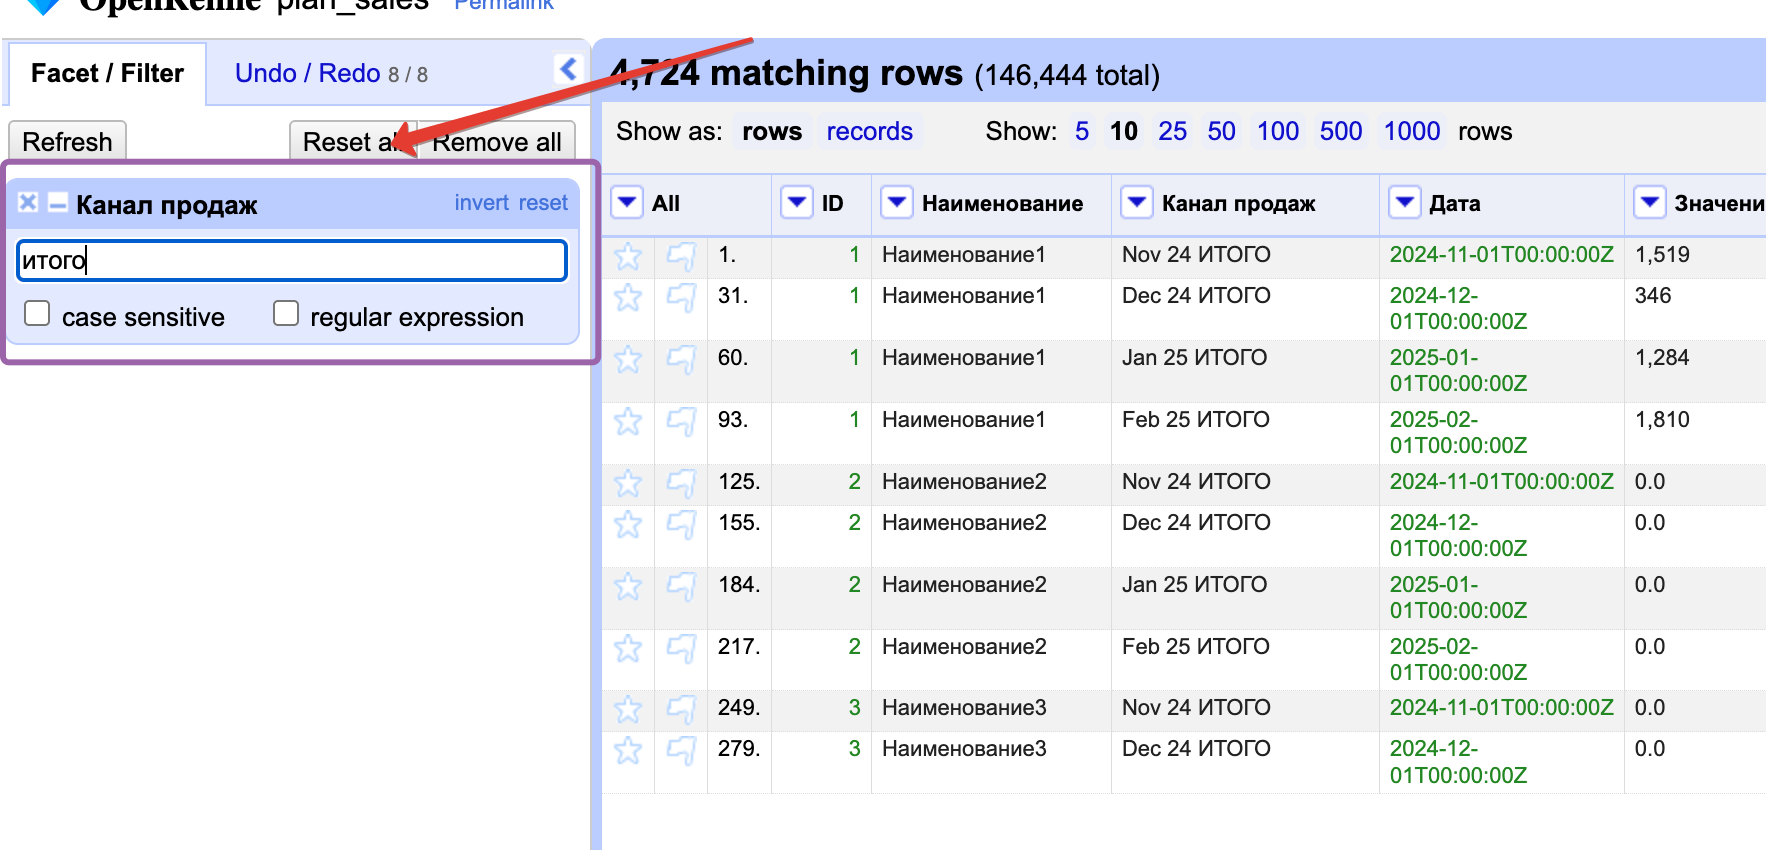
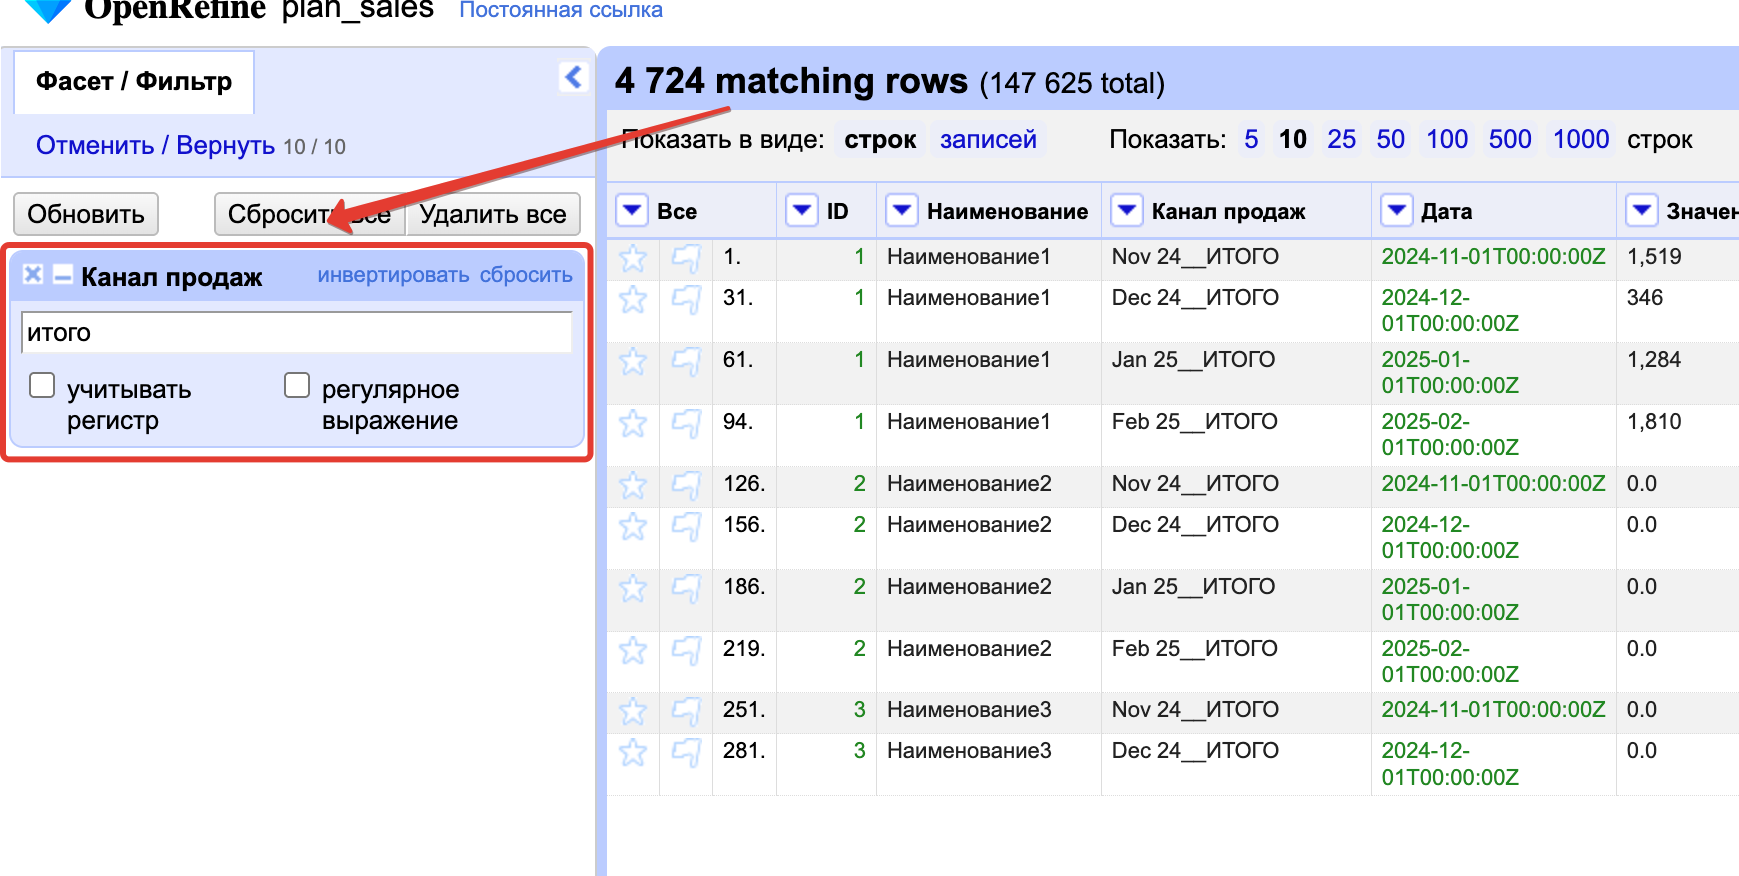
fix(excel_import): russian language

diff --git a/README.md b/README.md
@@ -114,7 +114,7 @@ if(
 
   1) Выбираем Text filter 
   ![img](img/sales_channel_text_filter.png)
-  2) Пишем текст "итого" (важно чтобы галочка case sensative не стояла)
+  2) Пишем текст "итого" (важно чтобы галочка "учитывать регистр" не стояла)
   ![img](img/sales_channel_text_filter_total.png)
   3) Выбираем в разделе All > Edit rows > Remove matching columns
   ![img](img/sales_channel_text_filter_total_remove_matching_rows.png)
